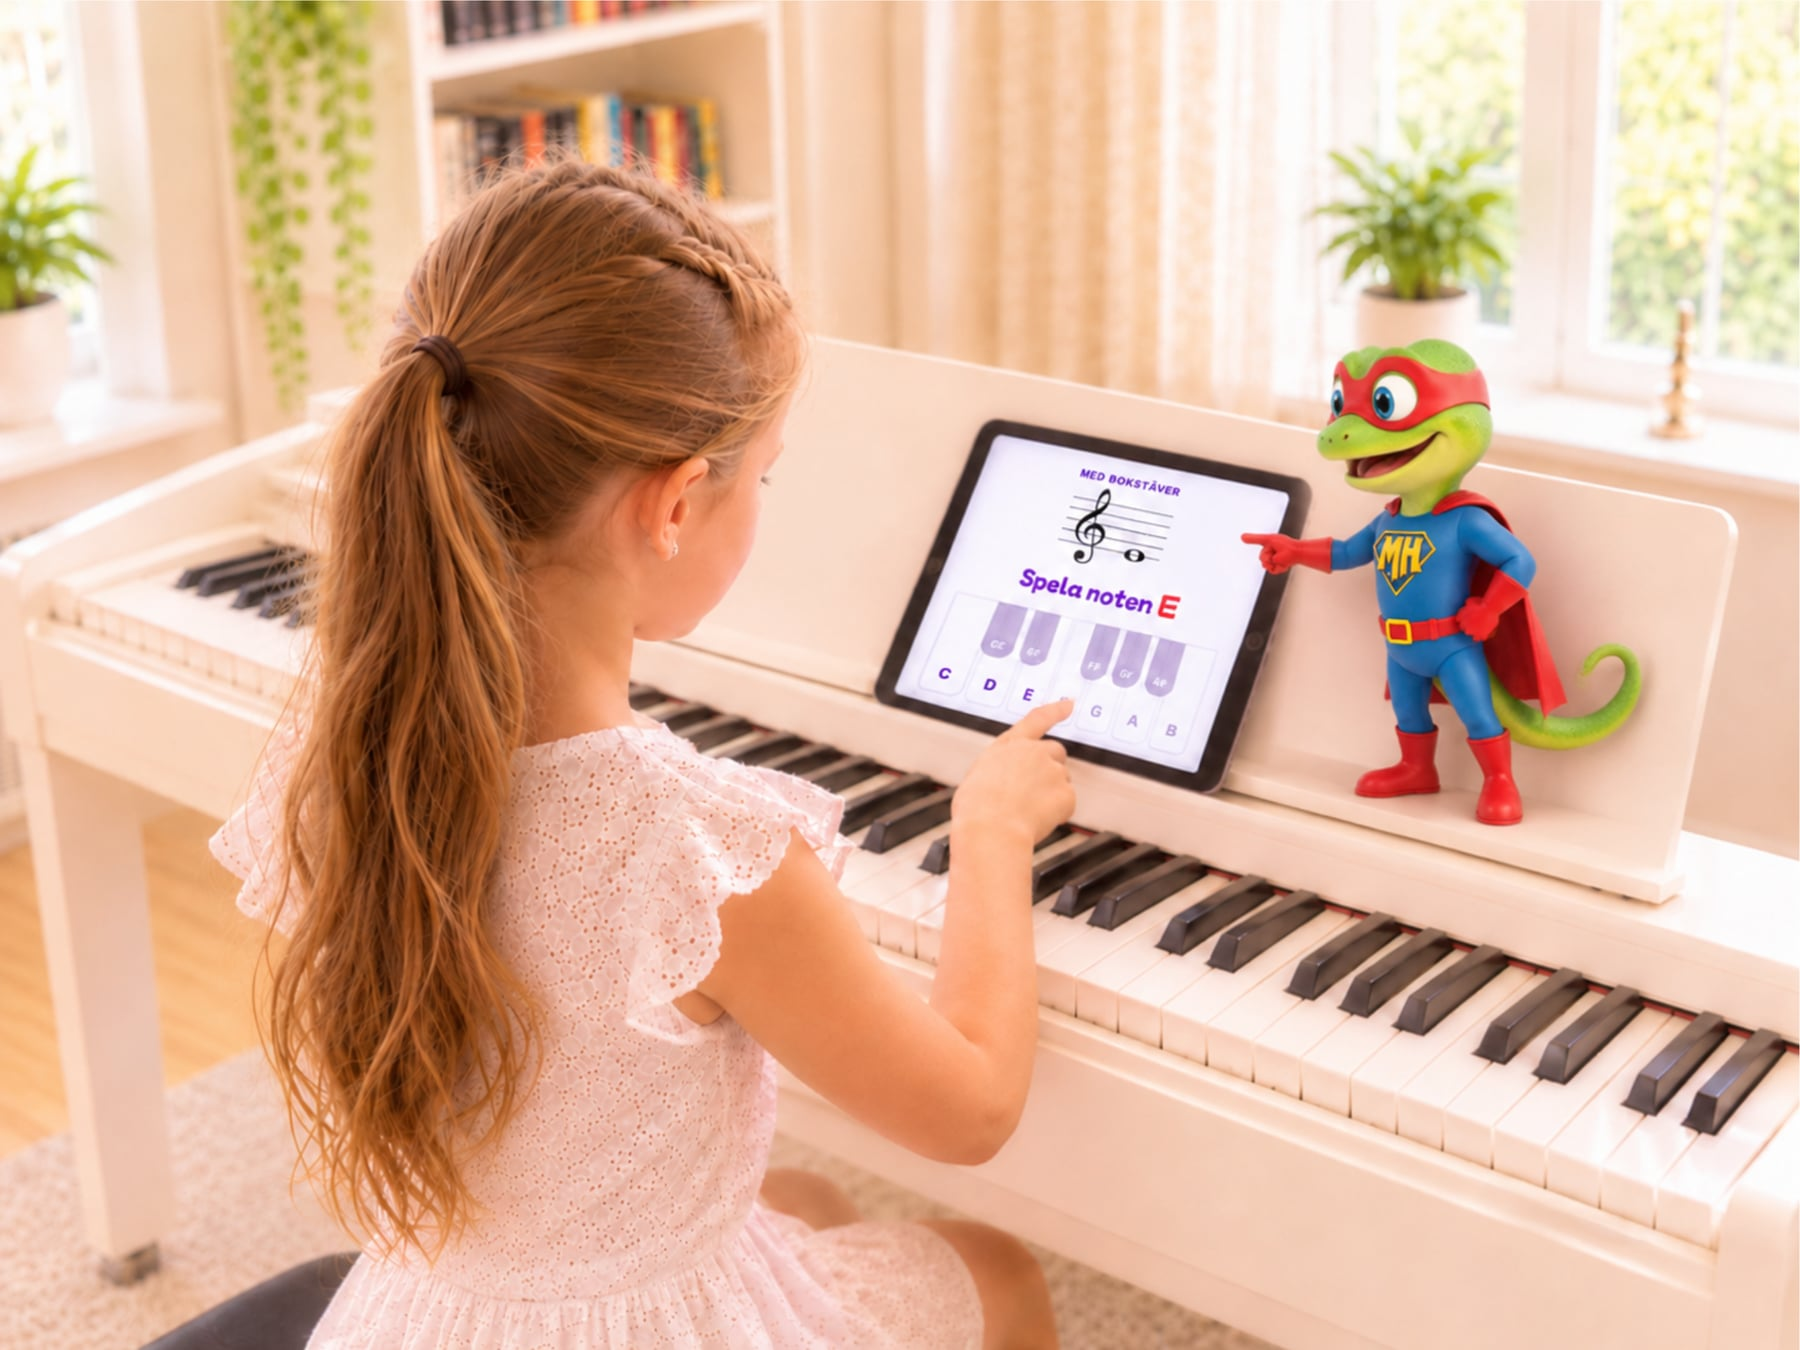
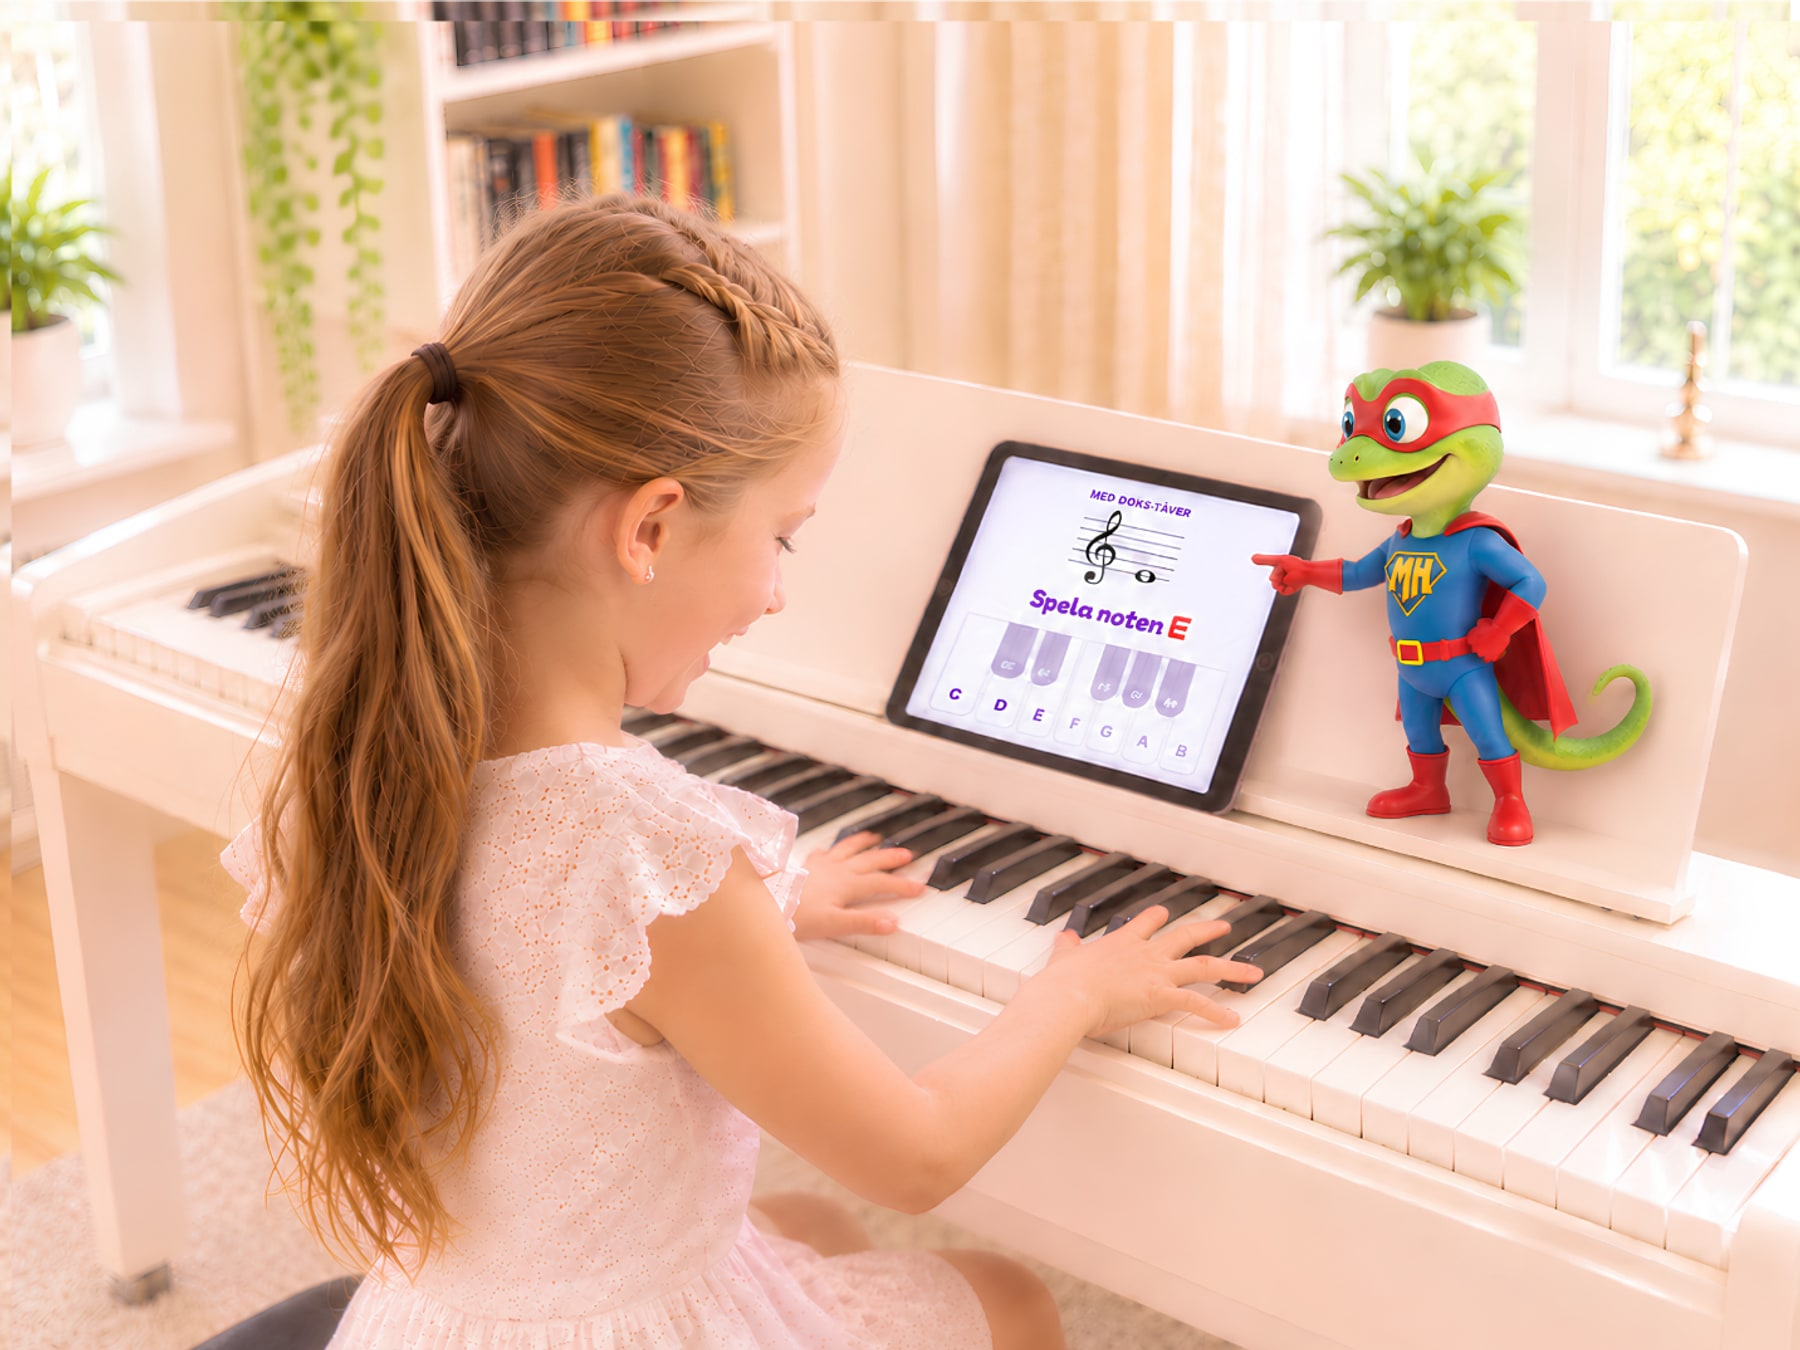
feat(content): new hero image and the clean Musikhjältarna title
From the client's latest changes: the hero image in the copy document,
white sides trimmed to 4:3, and the title from
"Rubrik Musikhjältarna text.svg", its mask made the transparency so
nothing shows behind it. The header title is a little wider to keep
its height, since the new title is longer for its height.

diff --git a/src/assets/images/README.md b/src/assets/images/README.md
@@ -6,18 +6,18 @@ the name. Prefer transparent PNG for characters.
 
 The current files come from the client's asset folder ("Landing page", November 2026, adjusted 12 November).
 
-| File name            | Content now                                              | Source file                                             | Used in                     |
-| -------------------- | -------------------------------------------------------- | ------------------------------------------------------- | --------------------------- |
-| `emblem`             | MH logo on white, square                                 | `Logga MH teal.png`                                     | Subscription card           |
-| `wordmark`           | "Musikhjältarna" title banner, transparent background    | Cut out of `Produkt i miljö/Rubrik Musikhjältarna.jpeg` | Header, subscription card   |
-| `hero-photo`         | Girl at the piano with the app and Gilbert G-klav (4:3)  | `app+Gilbert+flicka vid pianot.png`, cropped            | Hero, in the wide arch      |
-| `step-start`         | Child using the app on a tablet (photo)                  | `Suzana + elev/Real-life user.png`                      | "Så fungerar", step 1       |
-| `step-practise`      | The app's piano keys with Gilbert                        | `Mock-up2.png`, cropped                                 | "Så fungerar", step 2       |
-| `step-reward`        | Gilbert with golden gloves, sticker on white             | `Gyllene handskar Gilbert klistermärke.png`             | "Så fungerar", step 3       |
-| `app-example-avatar` | Gilbert G-klav, head and shoulders (square)              | Cropped from `Mock-up2.png`                             | Practice example card       |
-| `family-photo`       | Child giving Gilbert G-klav a high five on the sofa      | `Suzana + elev/Elev+Gilbert.png`                        | "För hela familjen" section |
-| `pedagogue-photo`    | Suzana Spasevska Hermansen (3:4)                         | `Suzana + elev/Suzana Pianotopia profil.PNG`            | Pedagogue section           |
-| `pedagogue-mascot`   | Gilbert G-klav with a light bulb, transparent background | Cut out of `Gilbert ide.jpeg`                           | Pedagogue, beside the photo |
+| File name            | Content now                                              | Source file                                              | Used in                     |
+| -------------------- | -------------------------------------------------------- | -------------------------------------------------------- | --------------------------- |
+| `emblem`             | MH logo on white, square                                 | `Logga MH teal.png`                                      | Subscription card           |
+| `wordmark`           | "Musikhjältarna" title banner, transparent background    | `Rubrik Musikhjältarna text.svg`, rendered and trimmed   | Header, subscription card   |
+| `hero-photo`         | Girl at the piano with the app and Gilbert G-klav (4:3)  | The hero image in the copy document, white sides trimmed | Hero, in the wide arch      |
+| `step-start`         | Child using the app on a tablet (photo)                  | `Suzana + elev/Real-life user.png`                       | "Så fungerar", step 1       |
+| `step-practise`      | The app's piano keys with Gilbert                        | `Mock-up2.png`, cropped                                  | "Så fungerar", step 2       |
+| `step-reward`        | Gilbert with golden gloves, sticker on white             | `Gyllene handskar Gilbert klistermärke.png`              | "Så fungerar", step 3       |
+| `app-example-avatar` | Gilbert G-klav, head and shoulders (square)              | Cropped from `Mock-up2.png`                              | Practice example card       |
+| `family-photo`       | Child giving Gilbert G-klav a high five on the sofa      | `Suzana + elev/Elev+Gilbert.png`                         | "För hela familjen" section |
+| `pedagogue-photo`    | Suzana Spasevska Hermansen (3:4)                         | `Suzana + elev/Suzana Pianotopia profil.PNG`             | Pedagogue section           |
+| `pedagogue-mascot`   | Gilbert G-klav with a light bulb, transparent background | Cut out of `Gilbert ide.jpeg`                            | Pedagogue, beside the photo |
 
 Photos fill the step frame; app art and stickers are shown whole (see
 `stepImages` in `HowItWorks.astro`).
